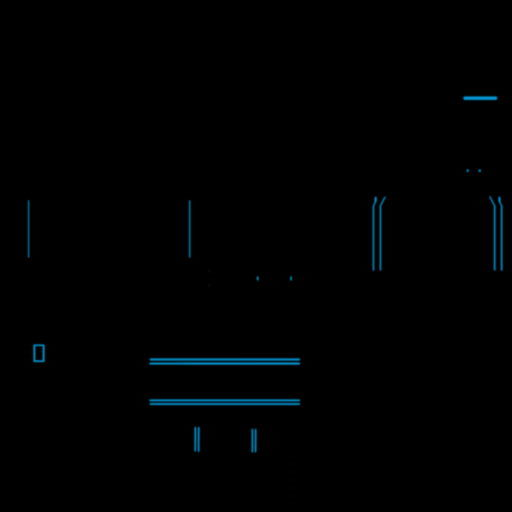
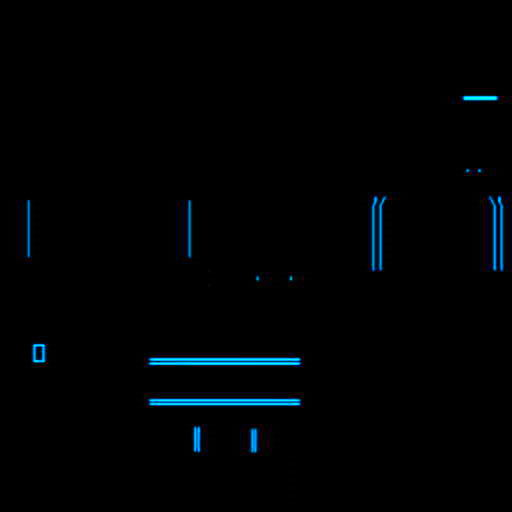
Small update to weapons

diff --git a/app/src/game.js b/app/src/game.js
@@ -11,13 +11,13 @@ const updatePowerup = (entity, frameTime) => {
     mat4.identity(entity.ani_matrix);
     mat4.fromRotation(entity.ani_matrix, entity.animationTime / 1000, [0, 1, 0]);
     mat4.translate(entity.ani_matrix, entity.ani_matrix,
-        [0, (Math.cos(Math.PI * (entity.animationTime / 1000)) * 0.15), 0]);
+        [0, (Math.cos(Math.PI * (entity.animationTime / 1000)) * 0.1), 0]);
     entity.children.forEach((e) => {
         mat4.copy(e.ani_matrix, entity.ani_matrix);
         mat4.translate(e.ani_matrix, e.ani_matrix, [0, 0.15, 0]);
     });
 };
-const createPowerup = (pos, type, mesh) => {
+const createPickup = (pos, type, mesh) => {
     const powerup = new MeshEntity(pos, mesh, updatePowerup);
     switch (type) {
     case 128:
@@ -27,9 +27,11 @@ const createPowerup = (pos, type, mesh) => {
         powerup.addChild(new PointlightEntity(pos, 1.2, [0, 0.352, 0.662], 1.25));
         break;
     case 130:
-        // powerup.addChild(new PointlightEntity(pos, 1.2, [0.623, 0.486, 0.133], 1.25));
-        powerup.addChild(new PointlightEntity(pos, 1.5, [0, 0.352, 0.662], 1.25));
-        mat4.scale(powerup.base_matrix, powerup.base_matrix, [2.25, 2.25, 2.25]);
+        powerup.addChild(new PointlightEntity(pos, 1.2, [0.623, 0.486, 0.133], 1.25));
+        break;
+    case 150:
+        powerup.addChild(new PointlightEntity(pos, 1.2, [0.2, 0.552, 0.862], 1.25));
+        mat4.scale(powerup.base_matrix, powerup.base_matrix, [1.75, 1.75, 1.75]);
         break;
     default:
         // code block
@@ -74,7 +76,7 @@ const createBall = () => {
 
 const Game = {
     createBall,
-    createPowerup
+    createPickup
 };
 
 export { Game as default };

diff --git a/app/src/world.js b/app/src/world.js
@@ -23,7 +23,8 @@ typeMap.set(1, 'mat_world_tiles');
 typeMap.set(2, 'mat_world_concrete');
 typeMap.set(128, 'meshes/health.mesh');
 typeMap.set(129, 'meshes/armor.mesh');
-typeMap.set(130, 'meshes/grenade_launcher.mesh');
+typeMap.set(130, 'meshes/ammo.mesh');
+typeMap.set(150, 'meshes/grenade_launcher.mesh');
 
 const lightMap = new Map();
 lightMap.set(1, [0.153, 0.643, 0.871]);
@@ -111,7 +112,7 @@ const prepare = () => {
             buffer.count++;
         // entities
         } else if (block >= 128) {
-            addEntities(Game.createPowerup(to3D(i), block, typeMap.get(block)));
+            addEntities(Game.createPickup(to3D(i), block, typeMap.get(block)));
         }
     });
 
